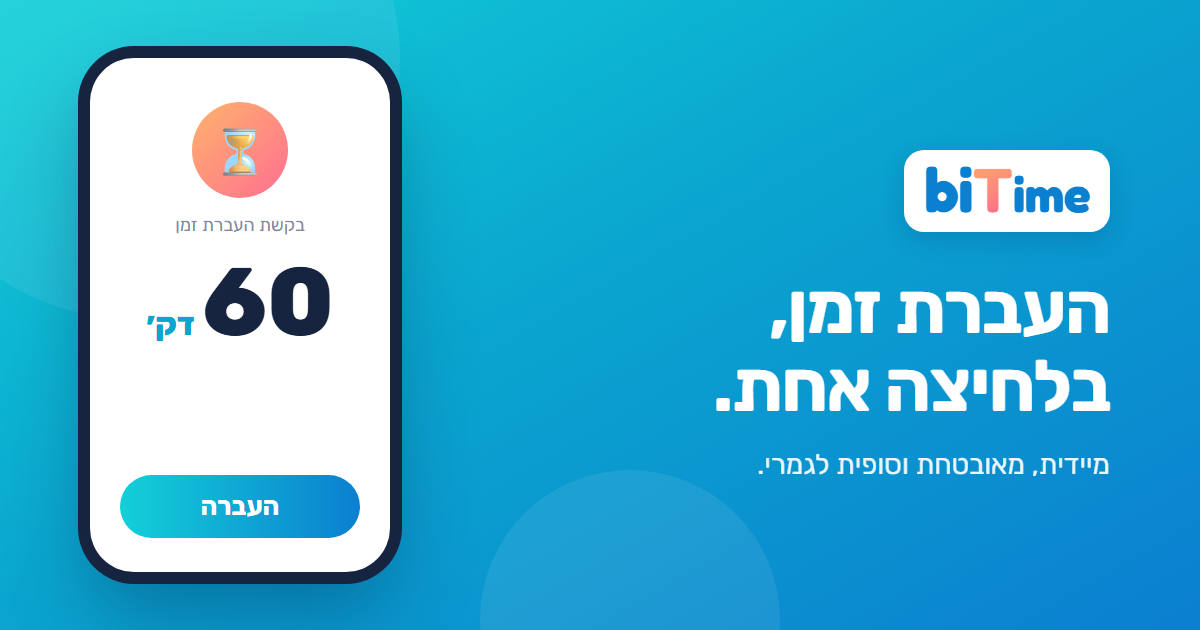
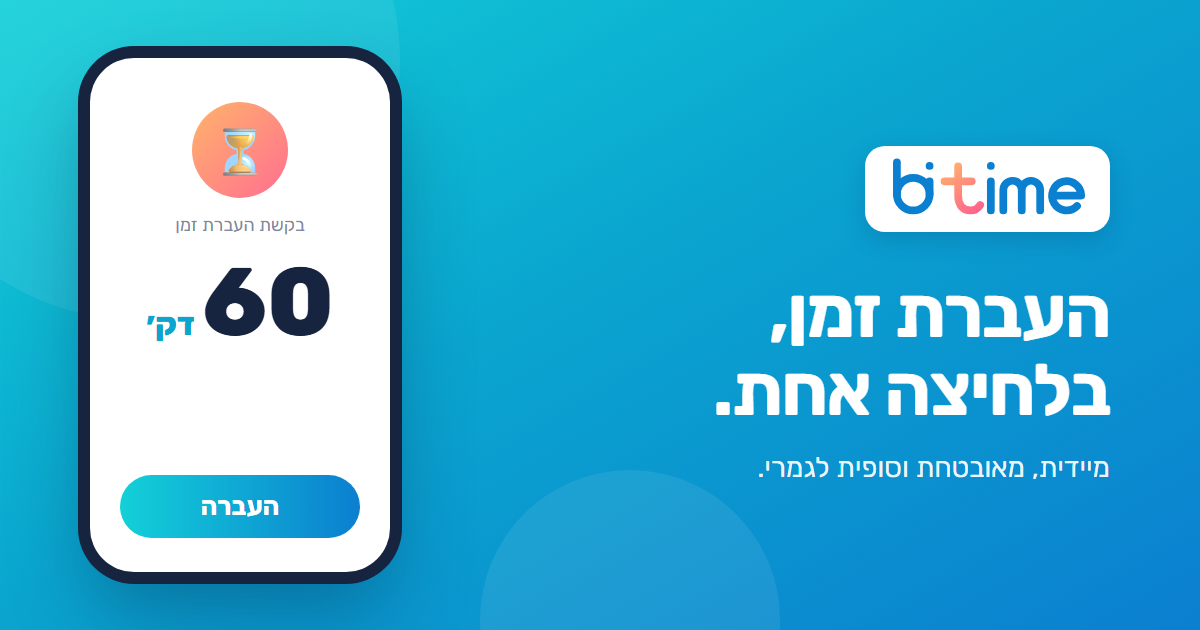
biTime

diff --git a/index.html b/index.html
@@ -247,7 +247,7 @@ button{font:inherit;cursor:pointer}
 
   <!-- desktop landing column -->
   <section class="hero">
-    <div class="mark"><span class="logo"><svg viewBox="4 2 346 112" role="img" aria-label="biTime"><defs><linearGradient id="tg1" gradientUnits="userSpaceOnUse" x1="92" y1="0" x2="170" y2="110"><stop offset="0" stop-color="#ffb36b"/><stop offset="1" stop-color="#ff5f8f"/></linearGradient></defs><g fill="none" stroke-linecap="round" stroke-linejoin="round" stroke-width="13"><g stroke="#0b7fd0"><path d="M18 12 V76"/><circle cx="42" cy="76" r="24"/><path d="M66 56 V76"/><path d="M66 22 h0"/></g><path stroke="url(#tg1)" d="M92 16 H170 M131 16 V74 Q131 100 157 100 H166"/><g stroke="#0b7fd0" transform="translate(190 100) scale(.84) translate(-190 -100)"><path d="M200 24 h0 M200 56 V100"/><path d="M228 100 V72 A16 16 0 0 1 260 72 V100 M260 72 A16 16 0 0 1 292 72 V100"/><path d="M320 78 H364 A22 22 0 1 0 356 95"/></g></g></svg></span></div>
+    <div class="mark"><span class="logo"><svg viewBox="0 10 690 222" role="img" aria-label="biTime"><defs><linearGradient id="tg1" gradientUnits="userSpaceOnUse" x1="200" y1="50" x2="320" y2="210"><stop offset="0" stop-color="#ffb36b"/><stop offset="1" stop-color="#ff5f8f"/></linearGradient></defs><g fill="none" stroke-linecap="round" stroke-linejoin="round" stroke-width="26"><g stroke="#0b7fd0"><path d="M40 38 V145"/><circle cx="95" cy="145" r="55"/><path d="M150 102 V145"/><path d="M150 50 h0"/></g><path stroke="url(#tg1)" d="M200 102 H292 M246 52 V150 C246 184 264 200 288 200 C303 200 313 193 320 182"/><g stroke="#0b7fd0"><path d="M356 50 h0 M356 102 V200"/><path d="M398 200 V131 A31 31 0 0 1 460 131 V200 M460 131 A31 31 0 0 1 522 131 V200"/><path d="M562 150 H660 A49 49 0 1 0 646 185"/></g></g></svg></span></div>
     <h1>העברת זמן,<br><span>בלחיצה אחת.</span></h1>
     <p class="lead">יש לך זמן פנוי? יש מי שאין לו. עם biTime מעבירים דקות, שעות ואפילו ימים שלמים, לכל אחד ובלי פרטי בנק.</p>
     <div class="feats">
@@ -270,7 +270,7 @@ button{font:inherit;cursor:pointer}
   <!-- the app -->
   <div class="app">
     <div class="hdr">
-      <div class="mark"><span class="logo"><svg viewBox="4 2 346 112" role="img" aria-label="biTime"><defs><linearGradient id="tg2" gradientUnits="userSpaceOnUse" x1="92" y1="0" x2="170" y2="110"><stop offset="0" stop-color="#ffb36b"/><stop offset="1" stop-color="#ff5f8f"/></linearGradient></defs><g fill="none" stroke-linecap="round" stroke-linejoin="round" stroke-width="13"><g stroke="#0b7fd0"><path d="M18 12 V76"/><circle cx="42" cy="76" r="24"/><path d="M66 56 V76"/><path d="M66 22 h0"/></g><path stroke="url(#tg2)" d="M92 16 H170 M131 16 V74 Q131 100 157 100 H166"/><g stroke="#0b7fd0" transform="translate(190 100) scale(.84) translate(-190 -100)"><path d="M200 24 h0 M200 56 V100"/><path d="M228 100 V72 A16 16 0 0 1 260 72 V100 M260 72 A16 16 0 0 1 292 72 V100"/><path d="M320 78 H364 A22 22 0 1 0 356 95"/></g></g></svg></span></div>
+      <div class="mark"><span class="logo"><svg viewBox="0 10 690 222" role="img" aria-label="biTime"><defs><linearGradient id="tg2" gradientUnits="userSpaceOnUse" x1="200" y1="50" x2="320" y2="210"><stop offset="0" stop-color="#ffb36b"/><stop offset="1" stop-color="#ff5f8f"/></linearGradient></defs><g fill="none" stroke-linecap="round" stroke-linejoin="round" stroke-width="26"><g stroke="#0b7fd0"><path d="M40 38 V145"/><circle cx="95" cy="145" r="55"/><path d="M150 102 V145"/><path d="M150 50 h0"/></g><path stroke="url(#tg2)" d="M200 102 H292 M246 52 V150 C246 184 264 200 288 200 C303 200 313 193 320 182"/><g stroke="#0b7fd0"><path d="M356 50 h0 M356 102 V200"/><path d="M398 200 V131 A31 31 0 0 1 460 131 V200 M460 131 A31 31 0 0 1 522 131 V200"/><path d="M562 150 H660 A49 49 0 1 0 646 185"/></g></g></svg></span></div>
       <div class="hbtns">
         <button class="pill" id="askBtn">＋ בקשת זמן</button>
         <div class="clock" title="זמן בדף">⏱ <b id="live">00:00</b></div>
